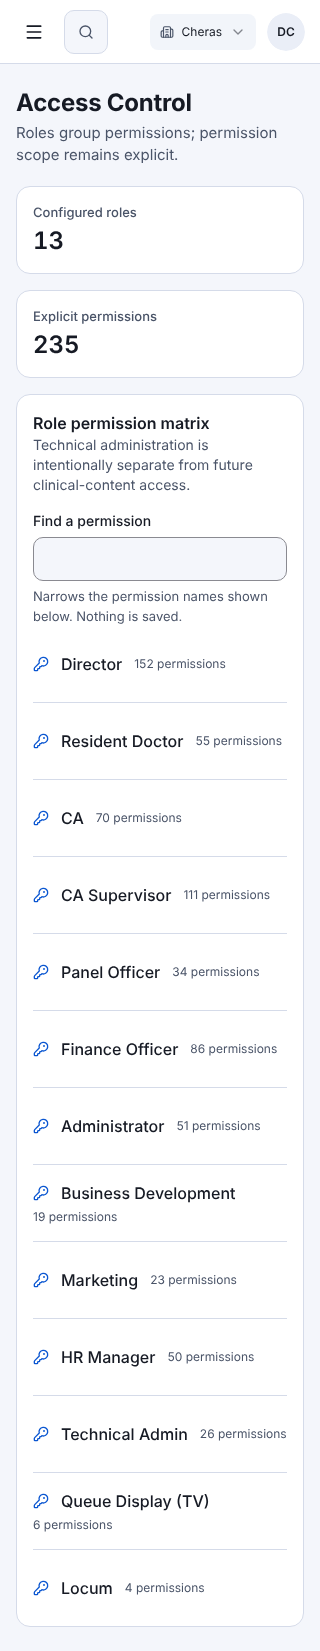
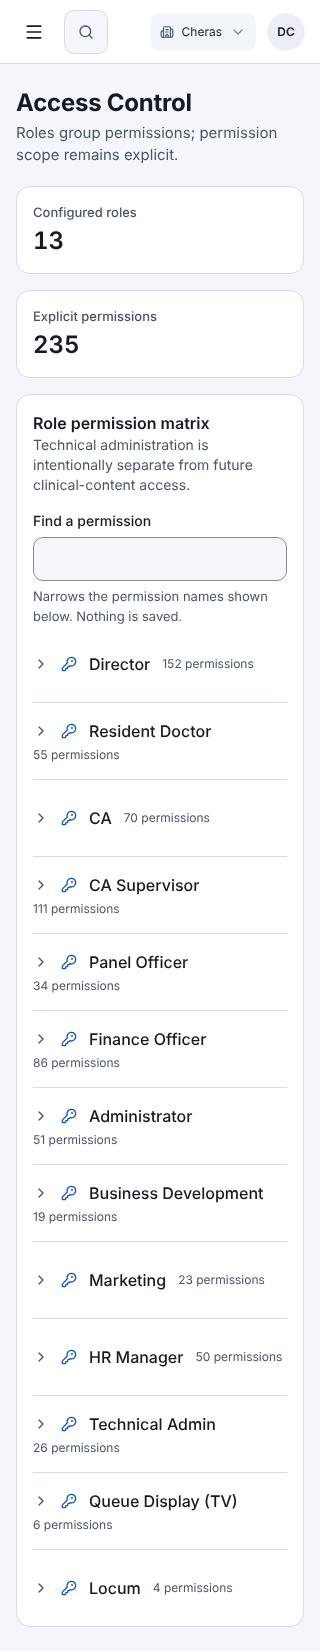
Evidence: V2 Access Control shots with chevron

diff --git a/docs/validation/v2-access-control/README.md b/docs/validation/v2-access-control/README.md
@@ -3,3 +3,5 @@
 Props are a snapshot of the REAL role catalogue (`PermissionCatalogue::roles()`: 13 roles, 235 distinct permissions; Director 152, CA 70, CA Supervisor 111, the TV account 6 and none of them audit.view.organisation). The page itself is mocked, nothing is fetched. Full list, filtered ("audit.view": Director, HR Manager and Technical Admin), no match, and roles folded, at 1440, 390 and 320 px, light and dark (24 shots).
 
 An earlier set of shots used generated permission names whose counts varied by role position (so the TV role looked like it held 117 permissions). That was a fault in the shot data, not in the page or the catalogue; those shots were replaced by this set. `tests/Frontend/v2-access-control-parity.test.mjs` renders Classic and V2 with the same props for every real role and checks the same label, count and permission names.
+
+After Aiman's review: each role now has a visible chevron (hidden from screen readers) that turns when it is open. Shots retaken.
